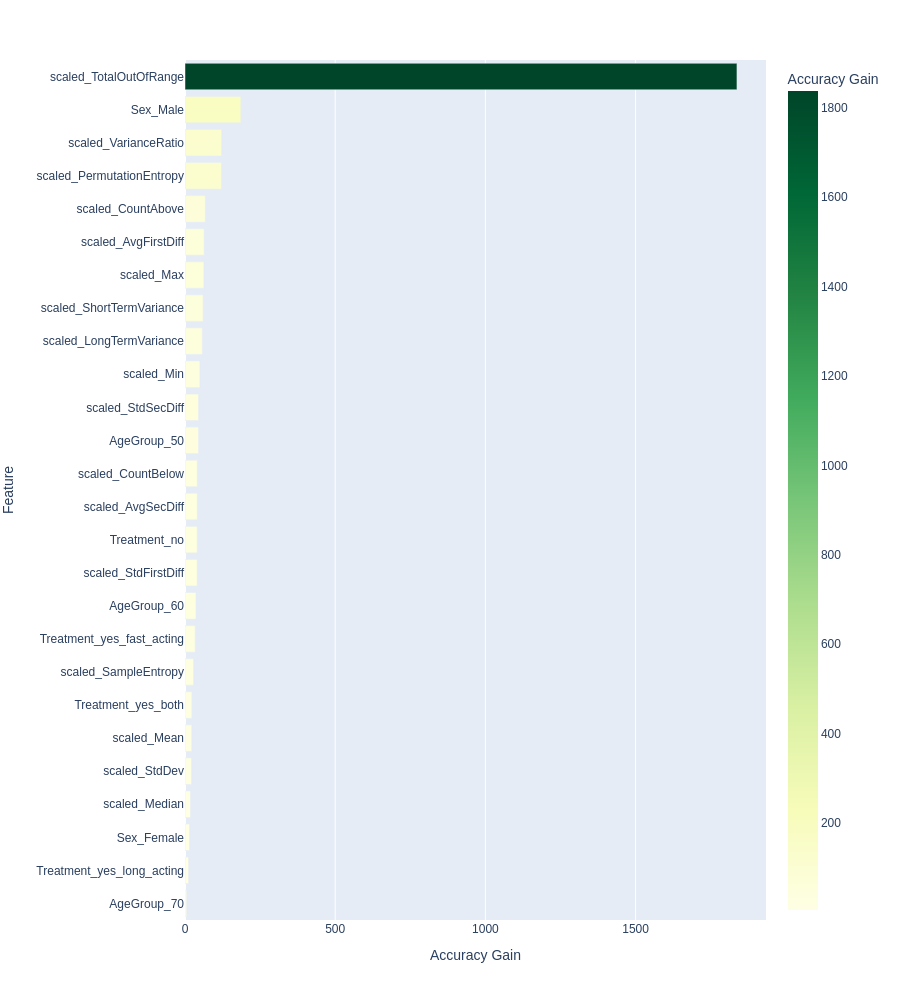
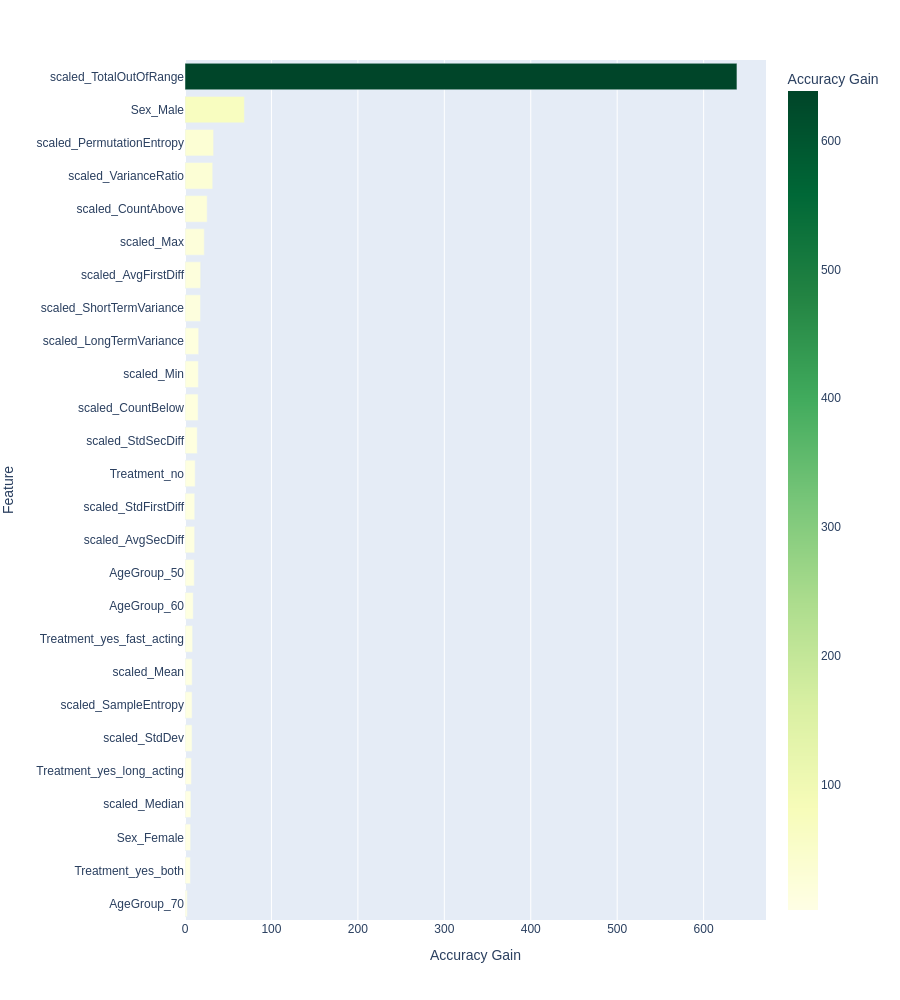
more parameter tuning

diff --git a/prediction_evaluate_models.py b/prediction_evaluate_models.py
@@ -10,13 +10,16 @@ from Input_Variables.read_vars import xgboost_regression_model_storage_location,
                                       classification_evaluation_metrics_output_storage
 from Read_In_Data.read_data import Reading_Data
 from Model_Preds_Eval.pyspark_model_preds_and_eval import Model_Predictions_And_Evaluations
-
+from Feature_Importance.model_feature_importance import Feature_Importance
+from Model_Plots.xgboost_classification_plots import XGBoost_Classification_Plot
 import os
 
 
 ################################ Read In Modules ################################
 reading_data=Reading_Data()
 model_predictions_and_evaluations=Model_Predictions_And_Evaluations()
+feature_importance=Feature_Importance()
+xgboost_classification_plot=XGBoost_Classification_Plot()
 
 
 ################################ Read In Data ################################
@@ -52,10 +55,24 @@ if train_regression is True:
 
         
 ################################ Classification: Testing Predictions and Evaluations ################################
-elif train_classification is True:
-    classification_models_pipeline_locations={'XGBoost': xgboost_classification_model_storage_location, 
-                                              'Logistic_Regression': logistic_regression_classification_model_storage_location,
-                                              'Random_Forest': random_forest_classification_model_storage_location}
+# if train_classification is True:
+#     classification_models_pipeline_locations={'XGBoost': xgboost_classification_model_storage_location, 
+#                                               'Logistic_Regression': logistic_regression_classification_model_storage_location,
+#                                               'Random_Forest': random_forest_classification_model_storage_location}
+    
+#     for classification_type in classification_models_pipeline_locations:
+#         print(f'Classification: Completing {classification_type} Model Evaluations')
+        
+#         model_predictions_and_evaluations.classification_create_evaluations(model_type=classification_type, 
+#                                                                             pipeline_location=classification_models_pipeline_locations[classification_type], 
+#                                                                             test_data=summary_stats_test, 
+#                                                                             classification_evaluation_metrics_output_storage=classification_evaluation_metrics_output_storage)
+
+        
+################################ Classification: Testing Predictions and Evaluations ################################
+print(">>>>> ", xgboost_classification_model_storage_location)
+if train_classification is True:
+    classification_models_pipeline_locations={'XGBoost': xgboost_classification_model_storage_location}
     
     for classification_type in classification_models_pipeline_locations:
         print(f'Classification: Completing {classification_type} Model Evaluations')
@@ -64,20 +81,27 @@ elif train_classification is True:
                                                                             pipeline_location=classification_models_pipeline_locations[classification_type], 
                                                                             test_data=summary_stats_test, 
                                                                             classification_evaluation_metrics_output_storage=classification_evaluation_metrics_output_storage)
+        
+        
+        
+
+# print('Did Not Choose To Evaluate Either Regression or Classification Models.')
+# xgbclassifier_model_storage=final_xgboost_classification_model_storage_location
+# create_xgbclassifier_model\
+#         .xgbclassifier_modeling(ml_df=df_train_val_combined,
+#                                 stages=pipeline_transformation_stages, 
+#                                 random_seed=random_seed,
+#                                 xgbclassifier_model_storage_location=xgbclassifier_model_storage,
+#                                 num_folds=3)
 
 
-else:
-    print('Did Not Choose To Evaluate Either Regression or Classification Models.')
-
-
-
-# ################################ Feature Importance ################################
+################################ Feature Importance ################################
 # feature_importance_df=feature_importance \
 #                             .feature_importance_accuracy_gain(xgboost_model=xgboost_regression_model, 
 #                                                               feature_importance_storage_location=feature_importance_storage_location)
 # feature_importance_df.head(10)
 
 
-# ################################ Feature Importance Plot ################################
+################################ Feature Importance Plot ################################
 # overall_feature_plot=xgboost_classification_plot.feature_overall_importance_plot(feature_importance_df=feature_importance_df,
 #                                                                                  overall_importance_plot_location=overall_feature_importance_plot_location)

diff --git a/create_all_models.py b/create_all_models.py
@@ -71,7 +71,7 @@ if train_regression is True:
 
 
 ################################ Classification Models ################################
-elif train_classification is True:
+if train_classification is True:
     classification_models_storage=[xgboost_classification_model_storage_location,
                                    logistic_regression_classification_model_storage_location,
                                    random_forest_classification_model_storage_location]
@@ -95,3 +95,21 @@ else:
     
 # else:
 #     print('Did Not Choose To Model Either Regression or Classification Models.')
+
+
+"""################################ Model Evaluation ################################"""
+# model_evaluation=evaluate_model.regression_evaluation(testing_predictions=testing_predictions, 
+#                                                       eval_csv_location=evaluation_metrics_output_storage)
+# model_evaluation.head()
+
+
+# ################################ Feature Importance ################################
+# feature_importance_df=feature_importance \
+#                             .feature_importance_accuracy_gain(xgboost_model=xgboost_regression_model, 
+#                                                               feature_importance_storage_location=feature_importance_storage_location)
+# feature_importance_df.head(10)
+
+
+# ################################ Feature Importance Plot ################################
+# overall_feature_plot=xgboost_classification_plot.feature_overall_importance_plot(feature_importance_df=feature_importance_df,
+#                                                                                  overall_importance_plot_location=overall_feature_importance_plot_location)

diff --git a/Model_Creation/xgbclassifier_model.py b/Model_Creation/xgbclassifier_model.py
@@ -27,13 +27,13 @@ class Create_XGBClassifier_Model:
         evaluator_logloss=MulticlassClassificationEvaluator(metricName='logLoss',
                                                             labelCol=self.label_name,
                                                             predictionCol=self.prediction_column_name)
-        paramGrid=ParamGridBuilder().addGrid(xgb_classification.max_depth,[4,5, 6 ,7,8,10]) \
-                                    .addGrid(xgb_classification.n_estimators,[50, 100 ,200]) \
-                                    .addGrid(xgb_classification.reg_alpha,[0, 0.01,0.1,1,10]) \
-                                    .addGrid(xgb_classification.reg_lambda,[0,.3,.7, 1]) \
+        paramGrid=ParamGridBuilder().addGrid(xgb_classification.max_depth,[7]) \
+                                    .addGrid(xgb_classification.n_estimators,[200,250]) \
+                                    .addGrid(xgb_classification.eta,[0.4, 0.3 ,0.2]) \
+                                    .addGrid(xgb_classification.reg_alpha,[12,15,]) \
+                                    .addGrid(xgb_classification.reg_lambda,[0.2,0.3,0.4]) \
                                     .build()
                                     # .addGrid(xgb_classification.booster,["gbtree","dart"])\ 
-                                    # .addGrid(xgb_classification.eta,[1, 0.3 ,0.1,0.001])\ 
                                     # .addGrid(xgb_classification.tree_method,["auto","approx"]) \
         
         # if location_counter > 0:
